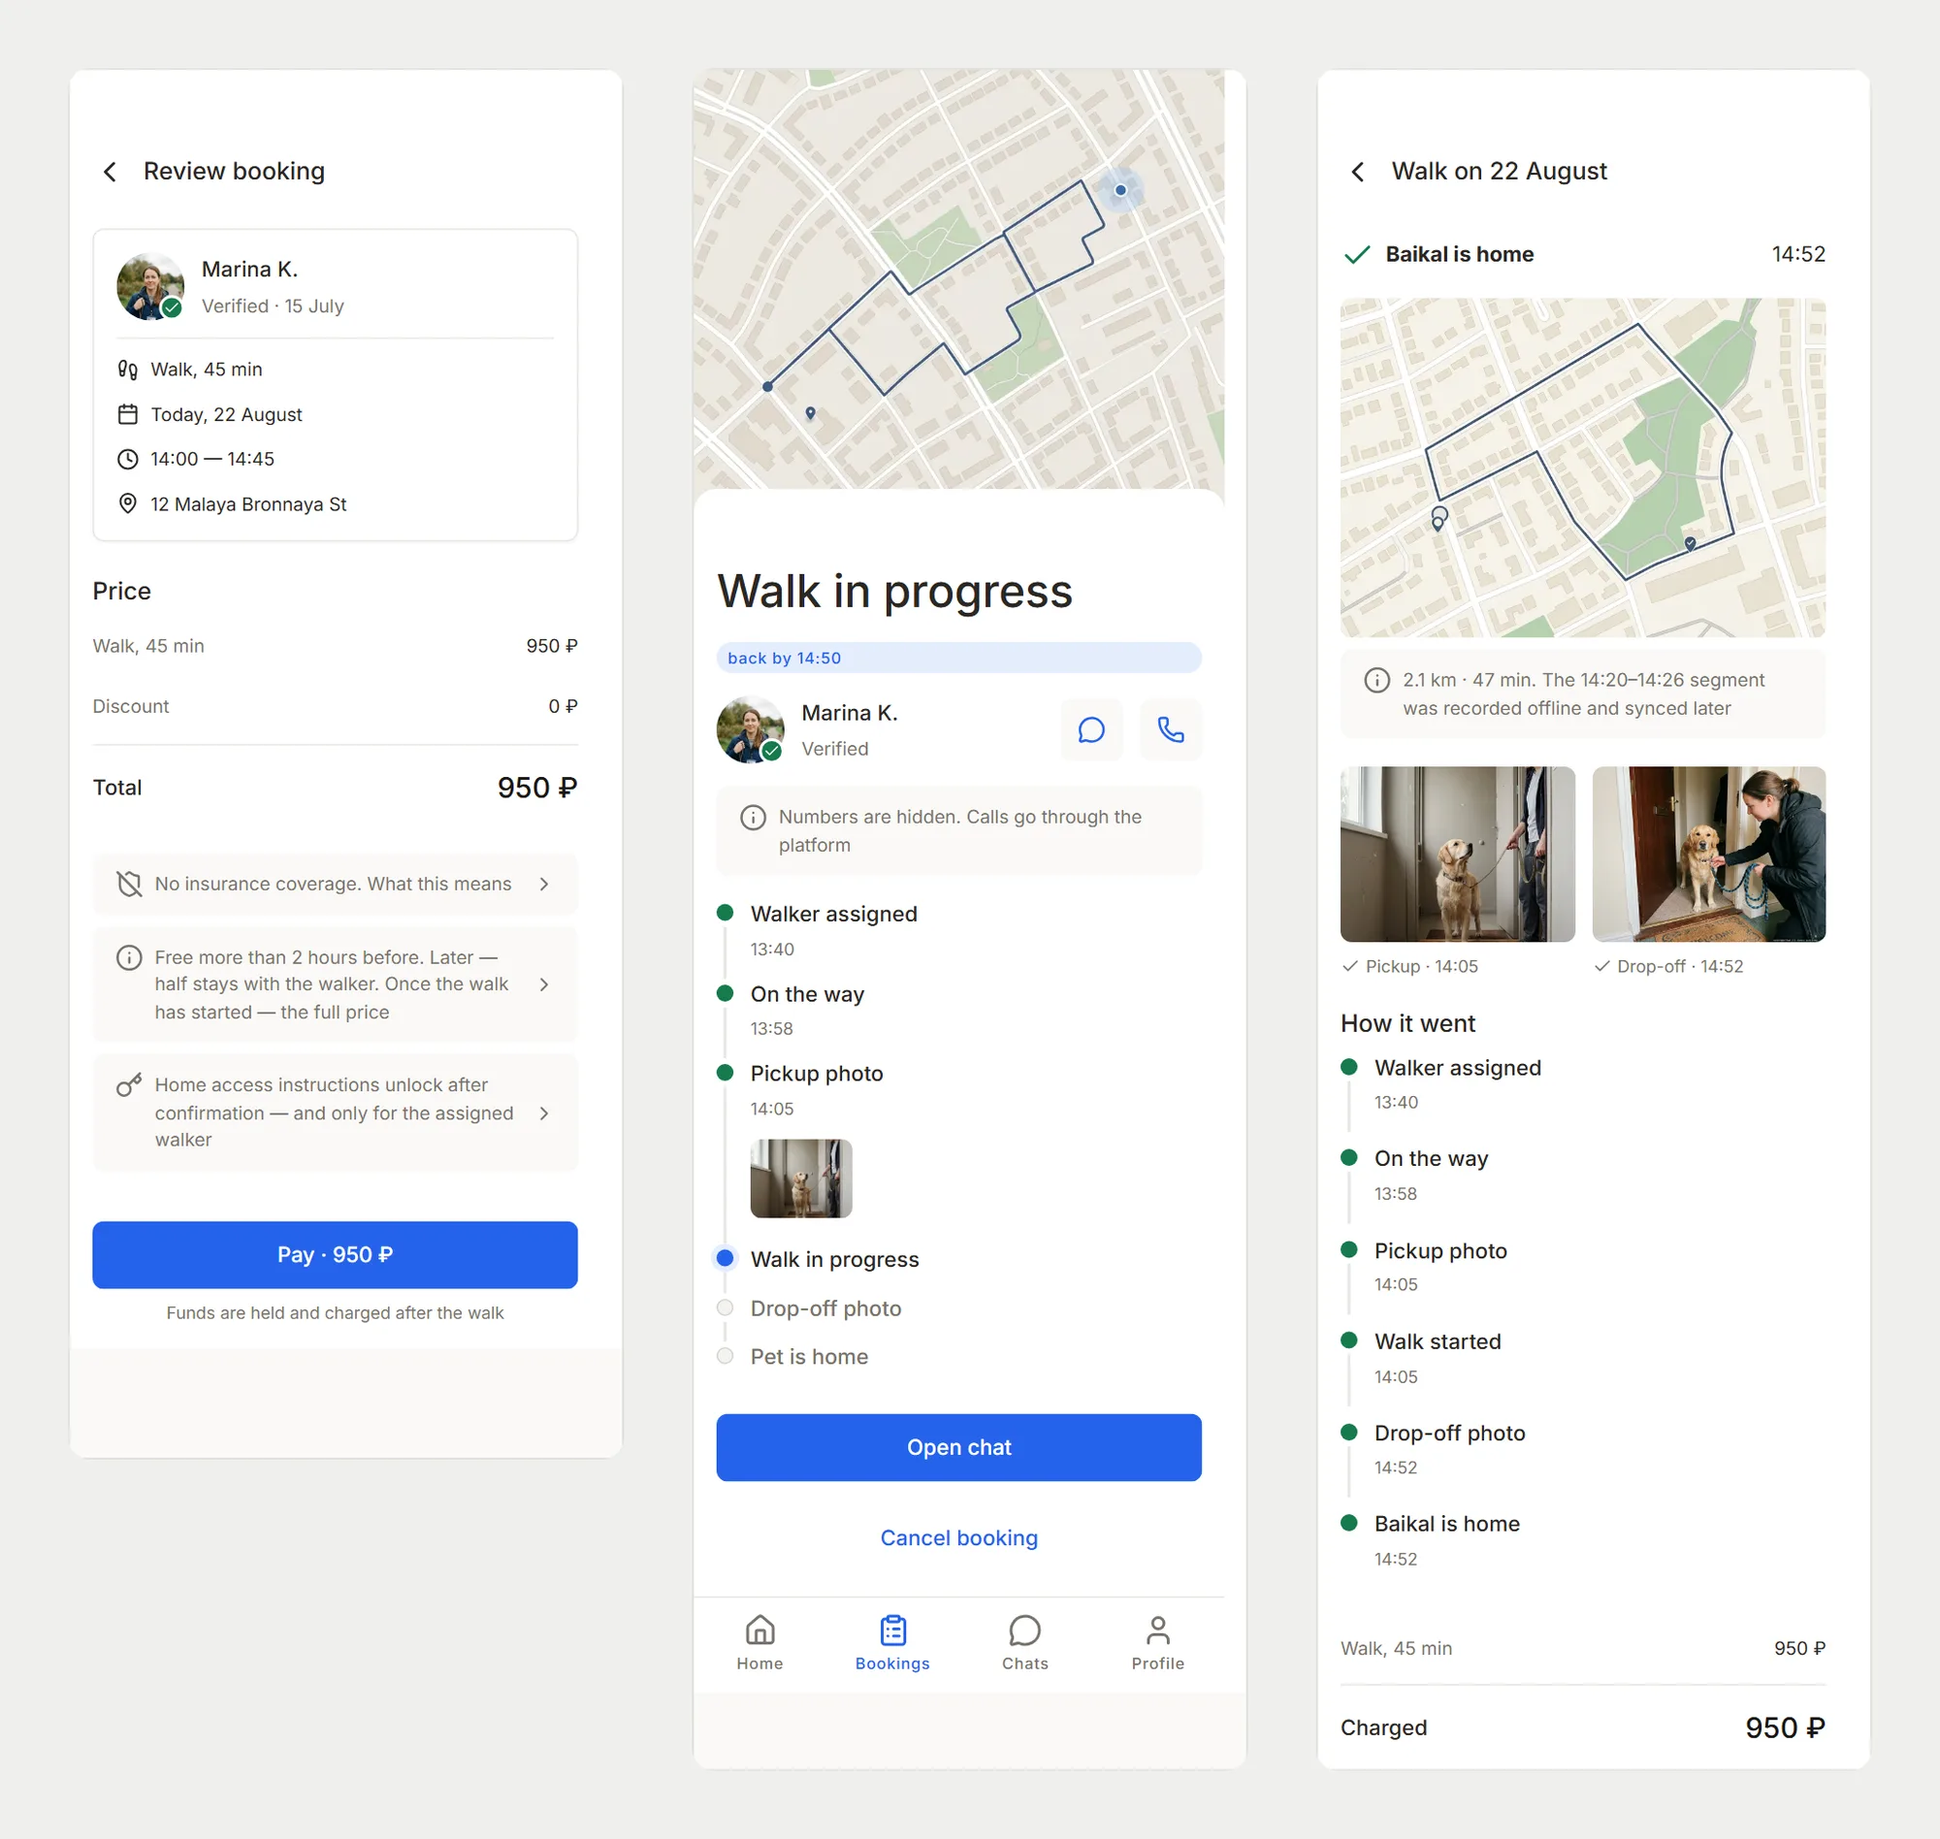
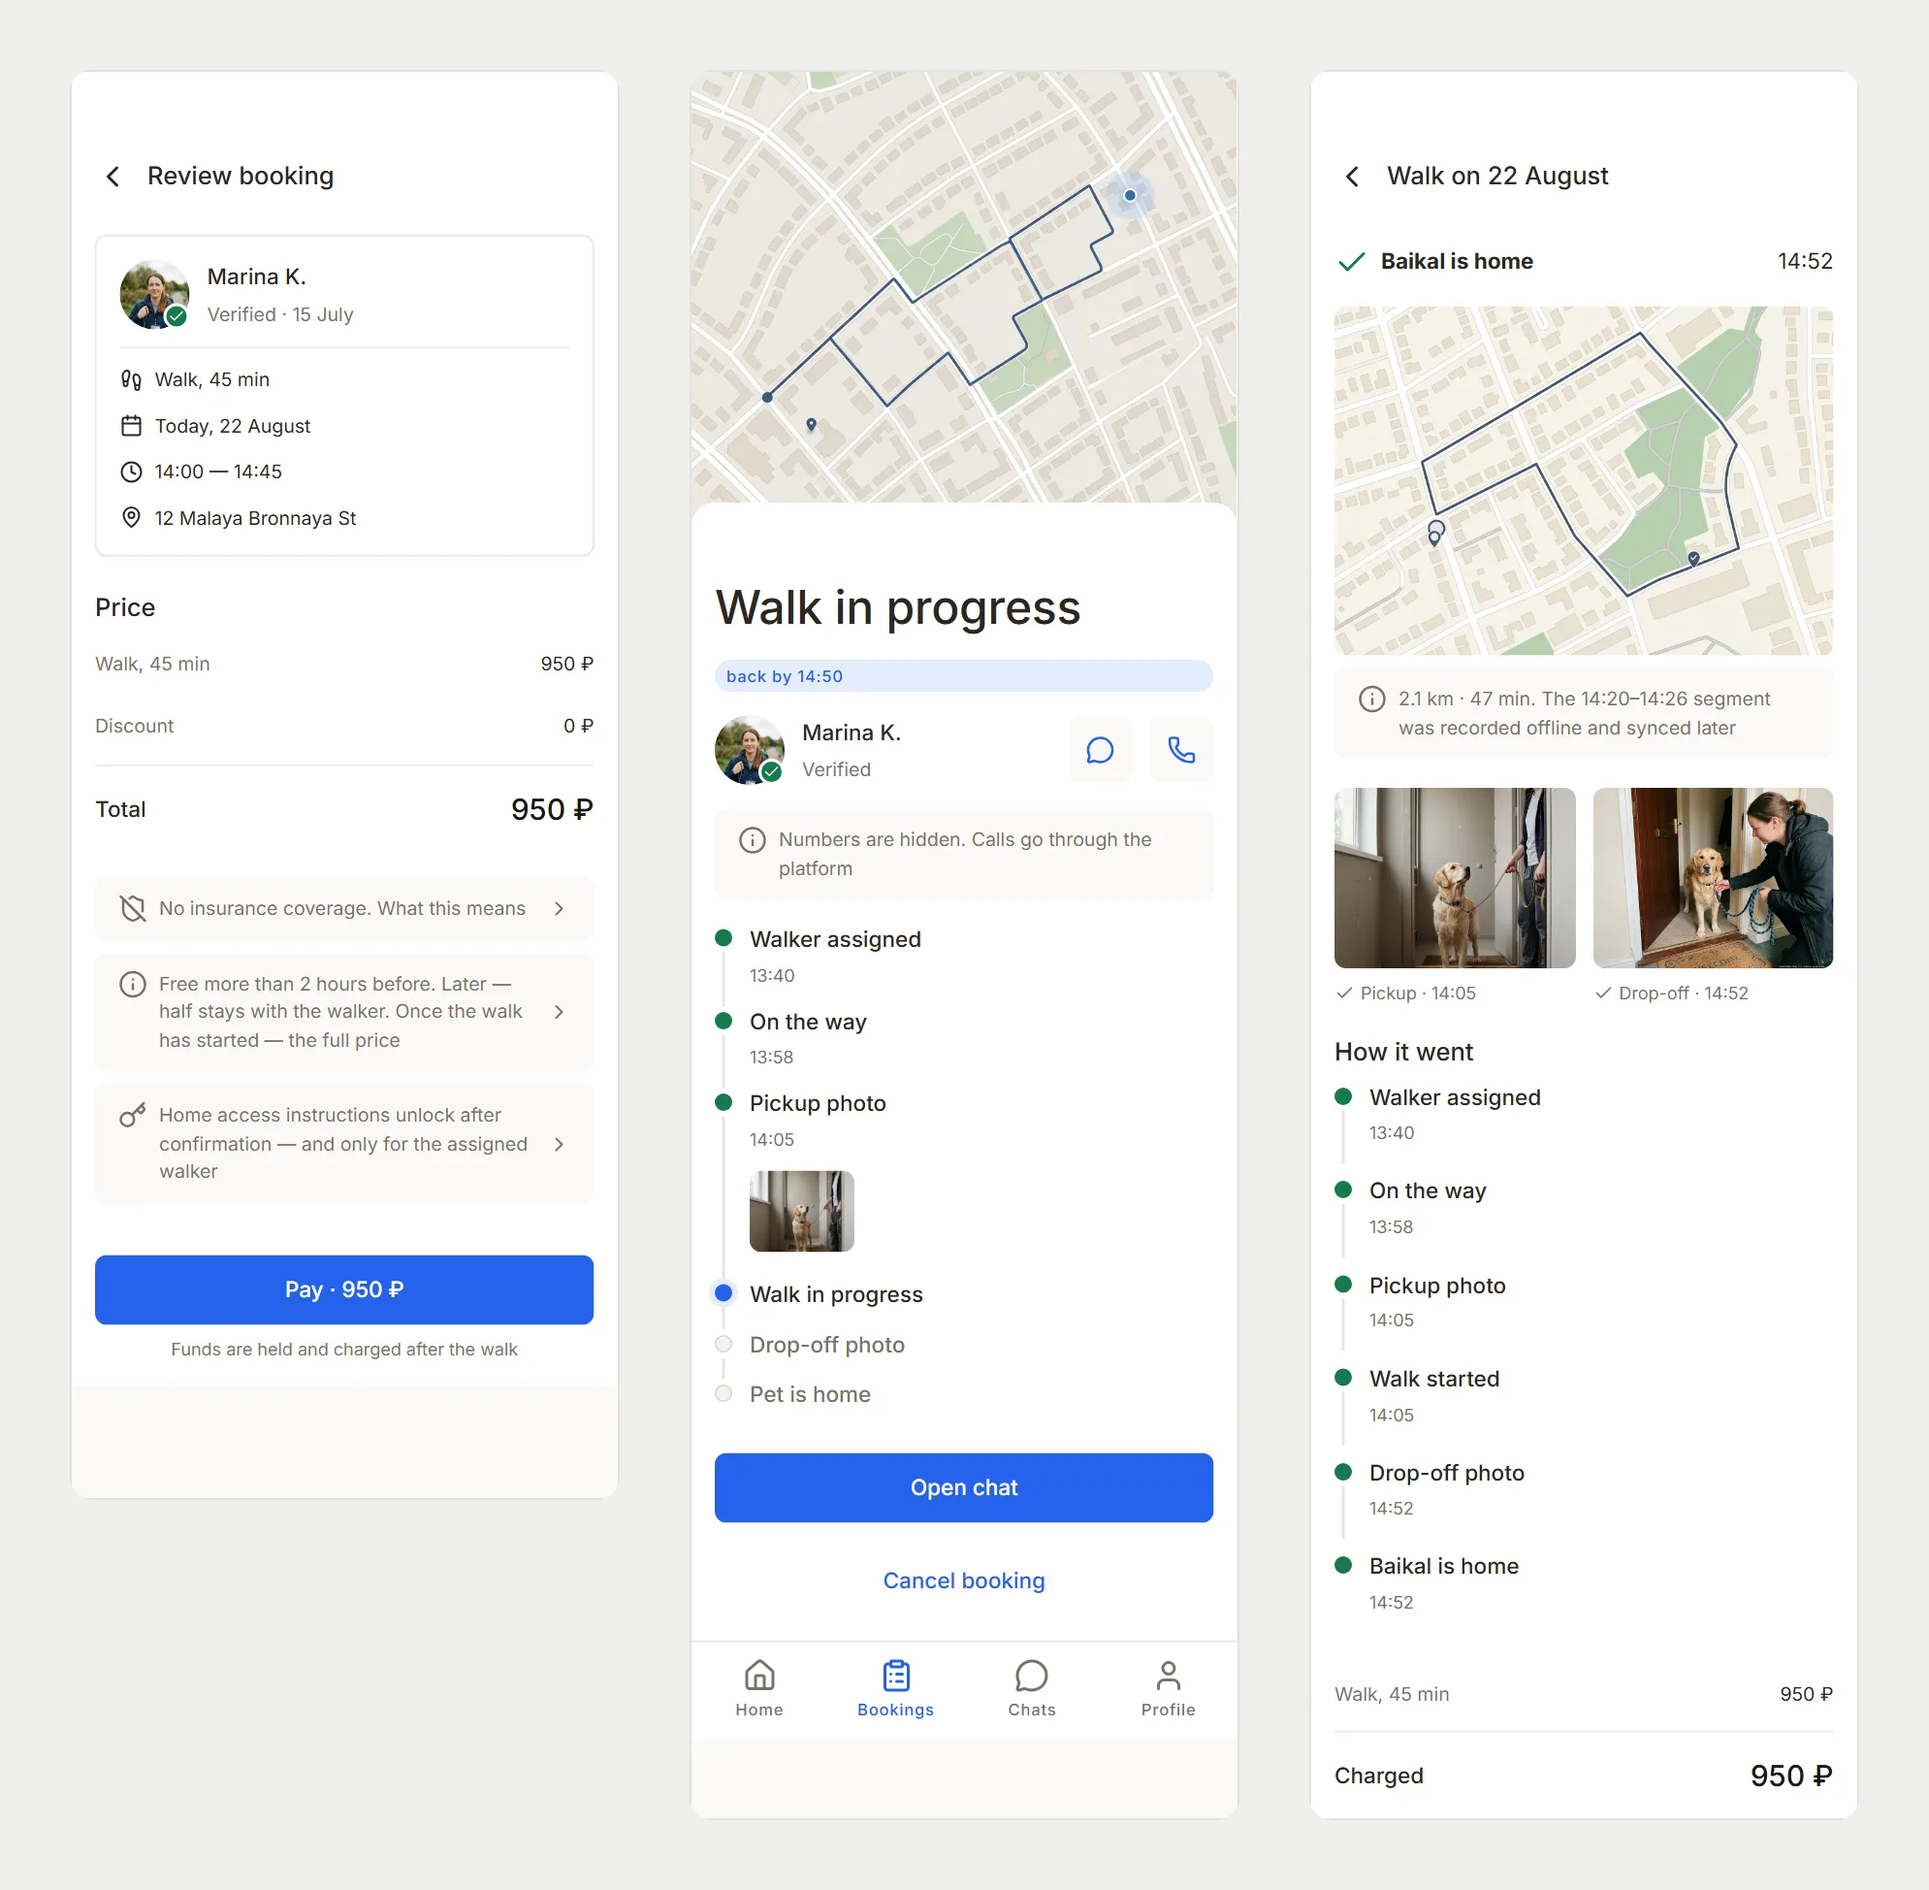
fix(pawly): remove trailing space from range cards

diff --git a/ds/screens/case-pawly.md b/ds/screens/case-pawly.md
@@ -112,7 +112,7 @@ stories — английские: `Button`, `InfoNote`, `EmptyState`, `BottomShe
 
 ## Кадр цепочки, 31.08.2026
 
-В конце `CaseReframe` встал `range` — один заказ в трёх моментах на 390 px:
+В конце `CaseReframe` встал `range` — один заказ в трёх моментах на 375 px:
 проверка заказа, идущая прогулка, завершённая прогулка
 (`scripts/shoot-range-frames.mjs pawly`, маршруты `/app/booking-review`,
 `/app/active-service`, `/app/order-details`).
@@ -120,7 +120,7 @@ stories — английские: `Button`, `InfoNote`, `EmptyState`, `BottomShe
 **Поле называется `range`, как у трёх других кейсов, но диапазон здесь
 другой.** У Agent Ops, DSSL и Vet Clinic OS колонки — один экран на разных
 ширинах; продукт там десктопный, и доказывать нужно адаптив. Pawly мобильный,
-390 px — вся его правда, и диапазон ширин доказывал бы то, чего продукт не
+375 px — каноническая ширина его экранов, и диапазон ширин доказывал бы то, чего продукт не
 обещает. Диапазон идёт по времени сервиса, и три момента взяты не произвольно:
 это ровно те три, что названы в лиде кейса — до передачи собаки, во время
 прогулки, после возвращения.
@@ -138,9 +138,9 @@ stories — английские: `Button`, `InfoNote`, `EmptyState`, `BottomShe
 поле. Колонке дана своя — 980, а не 900, потому что по-русски дисклеймеры
 выше и на 900 обрезалась строка удержания средств под кнопкой оплаты.
 
-**Ширина и углы колонок нормализуются в производственном скрипте.** Viewer и
-`.device` принудительно занимают все 390 px без скрытого 375 px ограничения,
-поэтому слева и справа нет разных служебных полей. После съёмки композитор
+**Ширина и углы колонок нормализуются в производственном скрипте.** Viewer,
+`.device` и экран снимаются в одинаковые 375 px: отдельного 390 px viewport,
+который оставлял 15 px пустого поля справа от продукта, больше нет. После съёмки композитор
 возвращает каждой колонке `radius-lg` и только затем ставит их на общую
 подложку с одинаковым промежутком.
 
